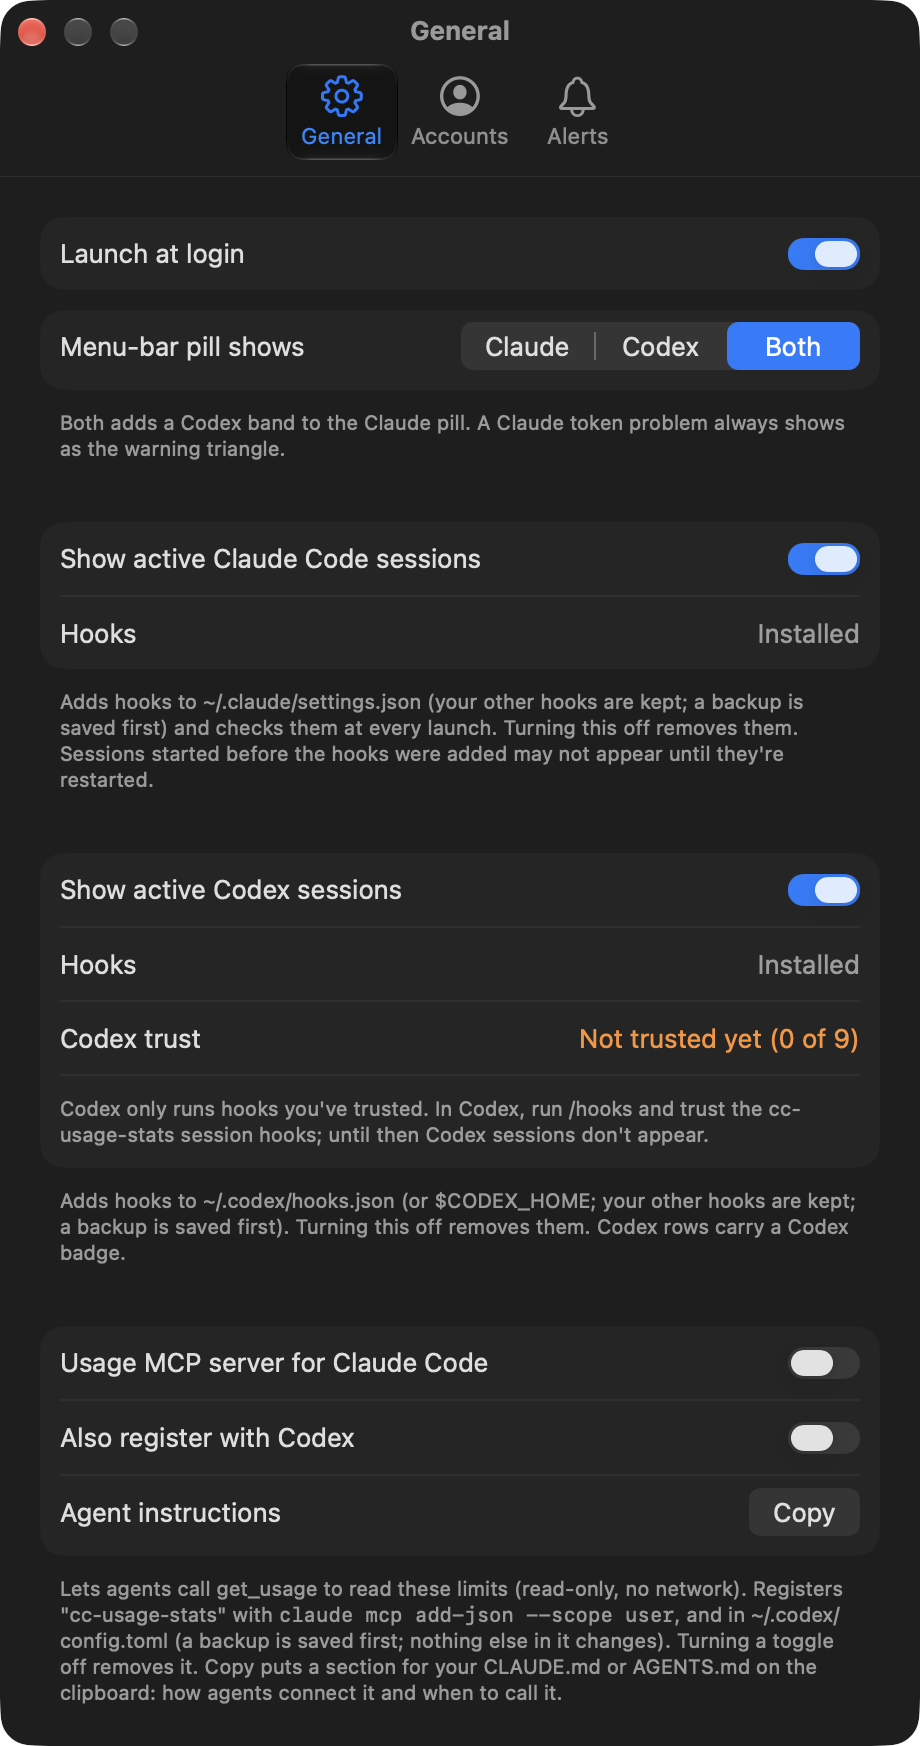
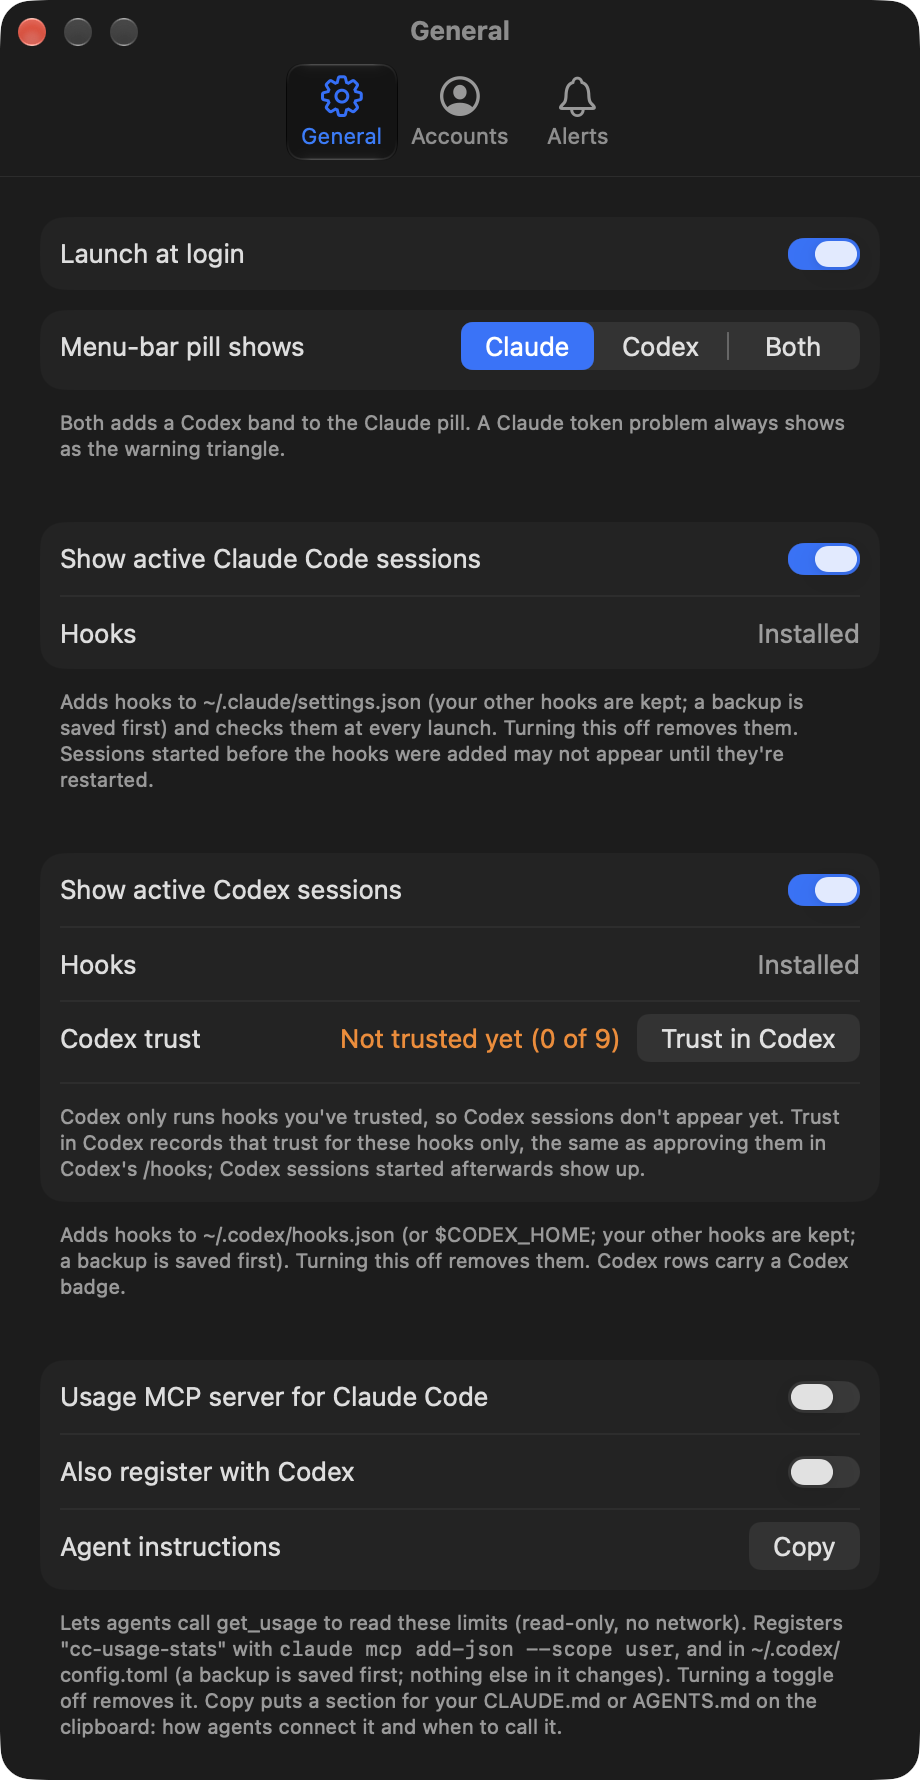
docs: General screenshots from v0.18.1 with Trust in Codex

diff --git a/README.md b/README.md
@@ -200,8 +200,8 @@ windows; the gauge needle always shows the absolute level.
 ### Settings window
 
 <picture>
-  <source media="(prefers-color-scheme: dark)" srcset="docs/screenshots/settings-general-dark.png?v=0.18.0">
-  <img alt="Settings — General tab" src="docs/screenshots/settings-general-light.png?v=0.18.0" width="460">
+  <source media="(prefers-color-scheme: dark)" srcset="docs/screenshots/settings-general-dark.png?v=0.18.1">
+  <img alt="Settings — General tab" src="docs/screenshots/settings-general-light.png?v=0.18.1" width="460">
 </picture>
 &nbsp;
 <picture>
